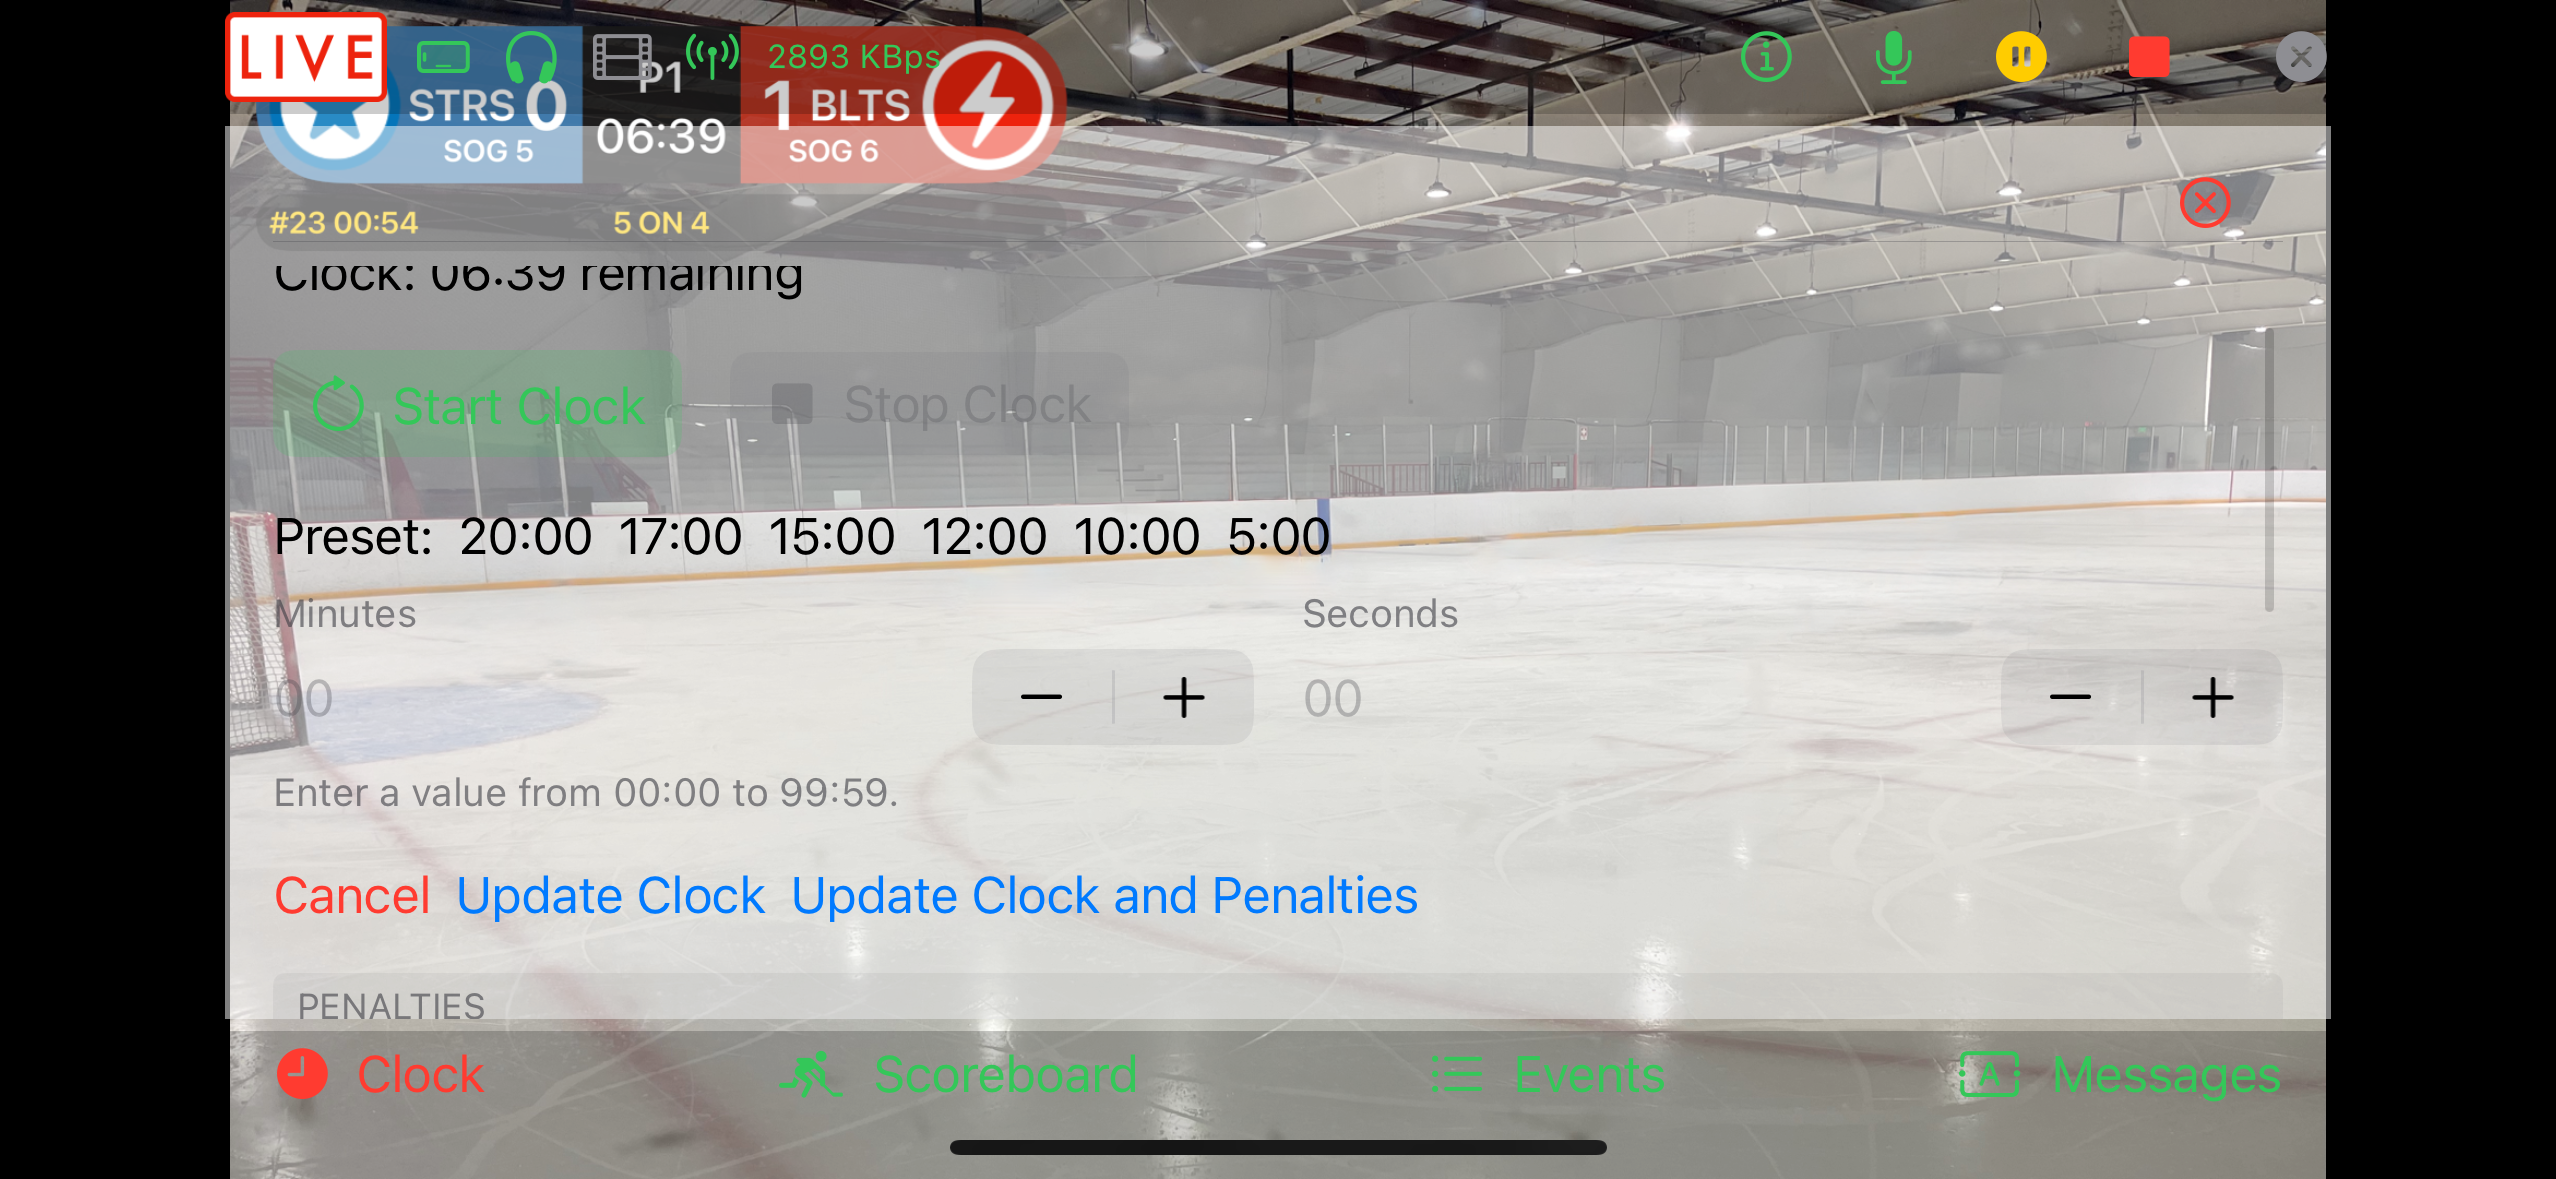
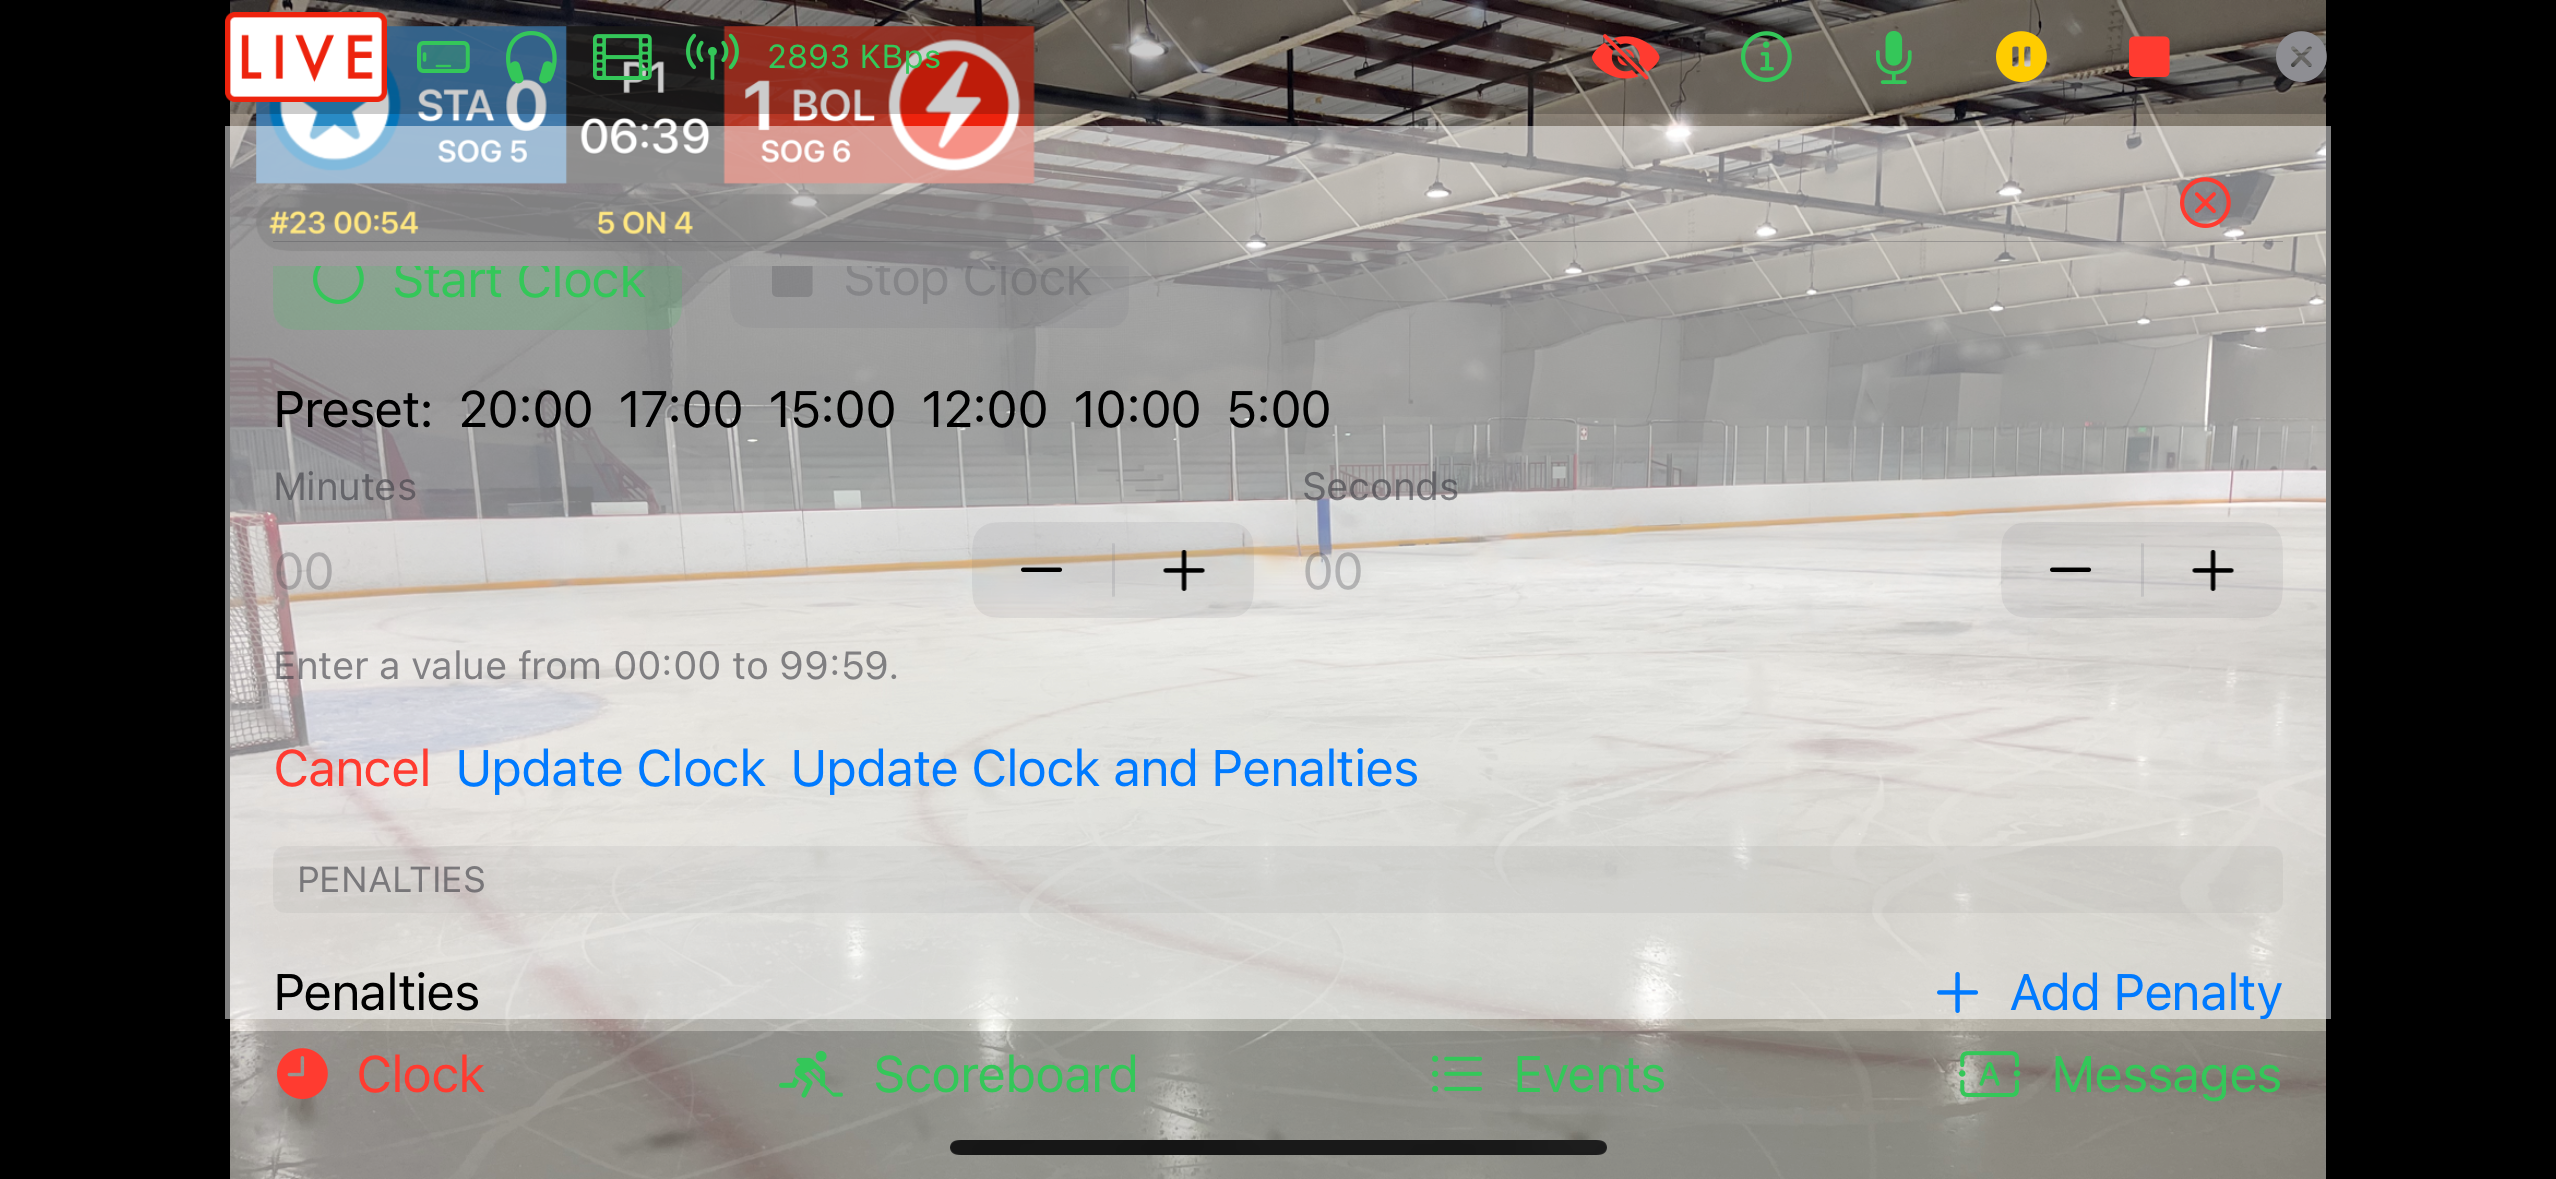
Update docs for beta-1.6-1

diff --git a/myteamlive/clock-panel.md b/myteamlive/clock-panel.md
@@ -24,20 +24,22 @@ The Game Clock can only be changed when the clock is stopped. Use the preset but
 
 The Game Clock runs down to 0. If you reset the Game Clock and there are active penalties, tap **Update Clock and Penalties** to keep the penalties in sync with the Game Clock.
 
-## Advantage Mode
+## Hockey Controls
+
+### Advantage Mode
 
 Controls how the player advantage (5v5, 5v4, etc.) is determined:
 
 - **Manual**: You select the player advantage directly using the Player Advantage picker.
 - **Automatic**: The player advantage is calculated automatically based on active penalties, empty net status, and the skaters setting.
 
-## Player Advantage Controls
+### Player Advantage Controls
 
 - **Player Advantage** select the on-ice strength (only editable in Manual mode).
 - **Empty Net** indicates which team (if any) has pulled their goalie. An empty net adds an extra skater for that team.
 - **Skaters** sets the base number of skaters (5v5, 4v4, or 3v3). Use 3v3 for overtime periods that use 3-on-3 rules.
 
-## Penalties
+### Penalties
 
 Shows the list of current active penalties; each can be edited or cleared. Tap **Add Penalty** to bring up the dialog to add a new penalty.
 
@@ -48,3 +50,7 @@ Penalty clocks run with the game clock. A penalty clock that goes to 0 expires a
 Use the double minor toggle to indicate a double minor. When the double minor expires or is cleared, it starts a second time to cover both minors.
 
 In Automatic mode, penalties affect the calculated player advantage. For example, one home penalty changes 5v5 to 5v4 (away power play).
+
+## Soccer Controls
+
+Additional time will show to the right of the clock time in the scorebug.

diff --git a/myteamlive/scoreboard-panel.md b/myteamlive/scoreboard-panel.md
@@ -16,20 +16,14 @@ Toggle the on-stream scoreboard, adjust scores, and manage sport-specific info.
 
 ## Hockey Controls
 - **Period** selects 1st, 2nd, 3rd, or OT.
-
-### Ribbon Scorebug
 - **Shots on Goal** steppers track shots.
 
 If the clock is disabled:
 - **Power Play** shows which team has the advantage.
 - **Player Advantage** show on-ice strength.
 
-### Square Scorebug
-- **Power Play** shows which team has the advantage.
-- **Player Advantage** show on-ice strength.
-
 ## Soccer Controls
 - **Period** selects First Half, Second Half, Extra Time, or PKs (when available).
-- **Yellow/Red Cards** track cards for each team.
+- **Red Cards** track cards for each team.
 
 Use the interactive help demo in the app to experiment without affecting a live game.

diff --git a/myteamlive/control-bar.md b/myteamlive/control-bar.md
@@ -25,6 +25,7 @@ streaming. It combines real-time indicators with broadcast controls.
 
 ## Controls (Right Side)
 
+- Hide on-screen controls.
 - [Camera Status](stream-info-panel).
 - Microphone mute toggle.
 - Live/Pause/Restart toggle.
@@ -33,3 +34,5 @@ streaming. It combines real-time indicators with broadcast controls.
 
 Use the interactive preview inside the app's Help section to see how each
 control changes the indicators.
+
+Hide the on screen controls to see the outgoing feed. Tap the show screen controls icon to switch back.
